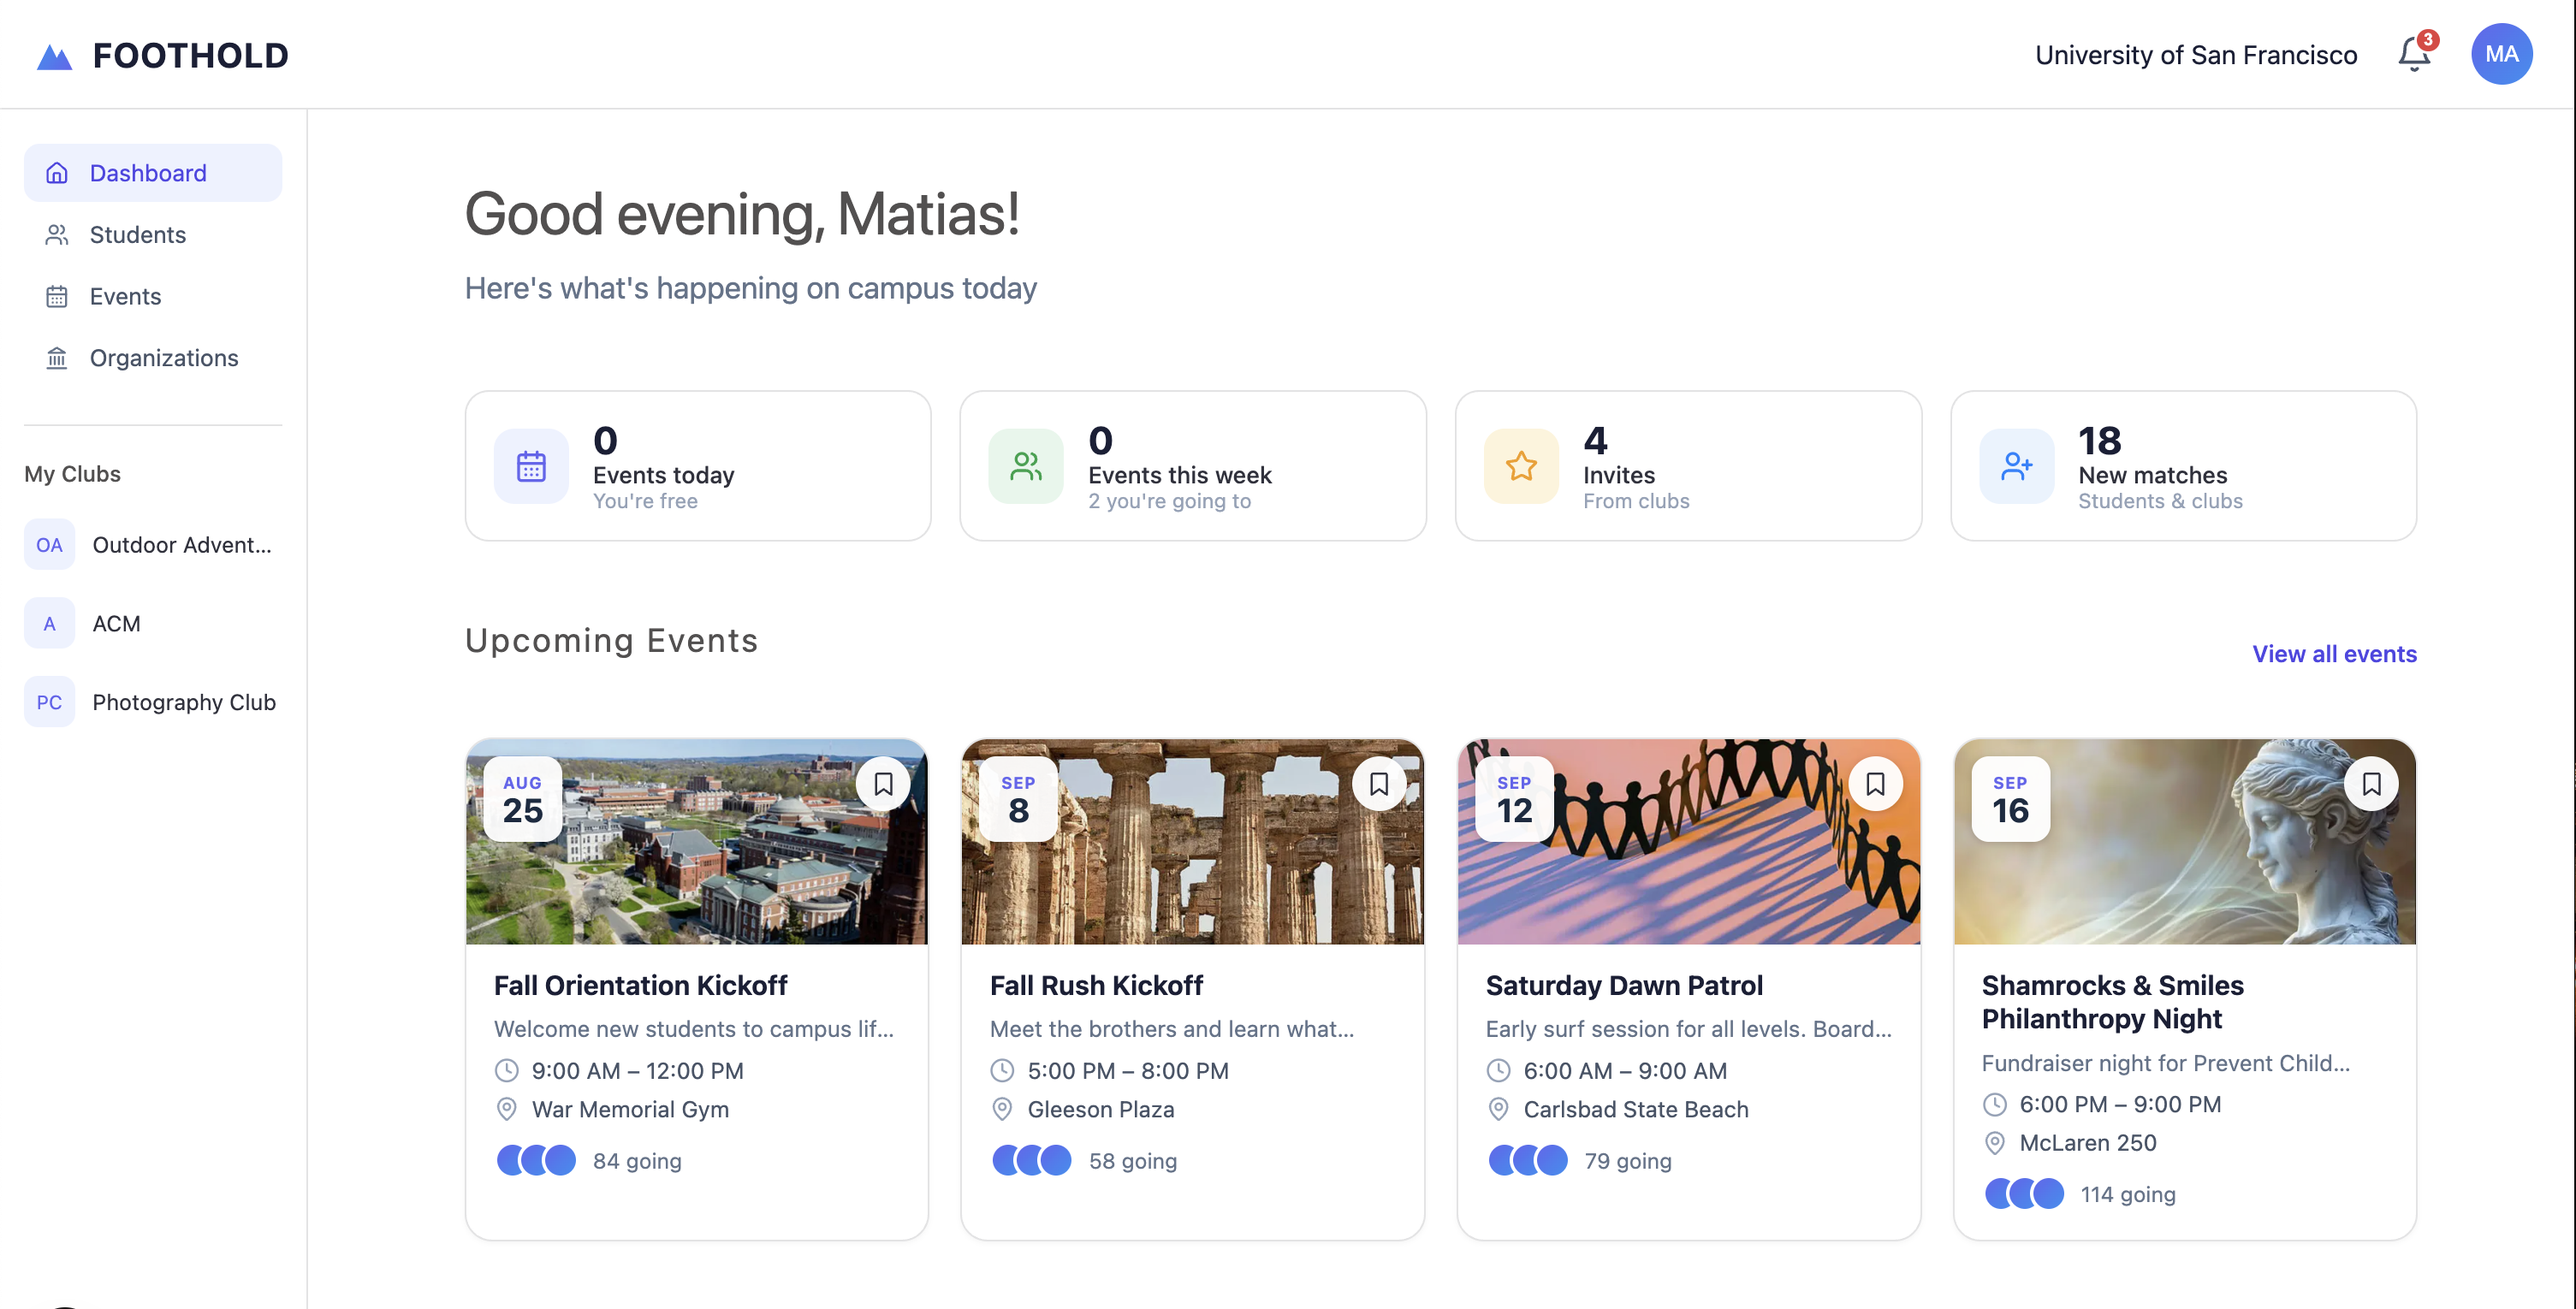
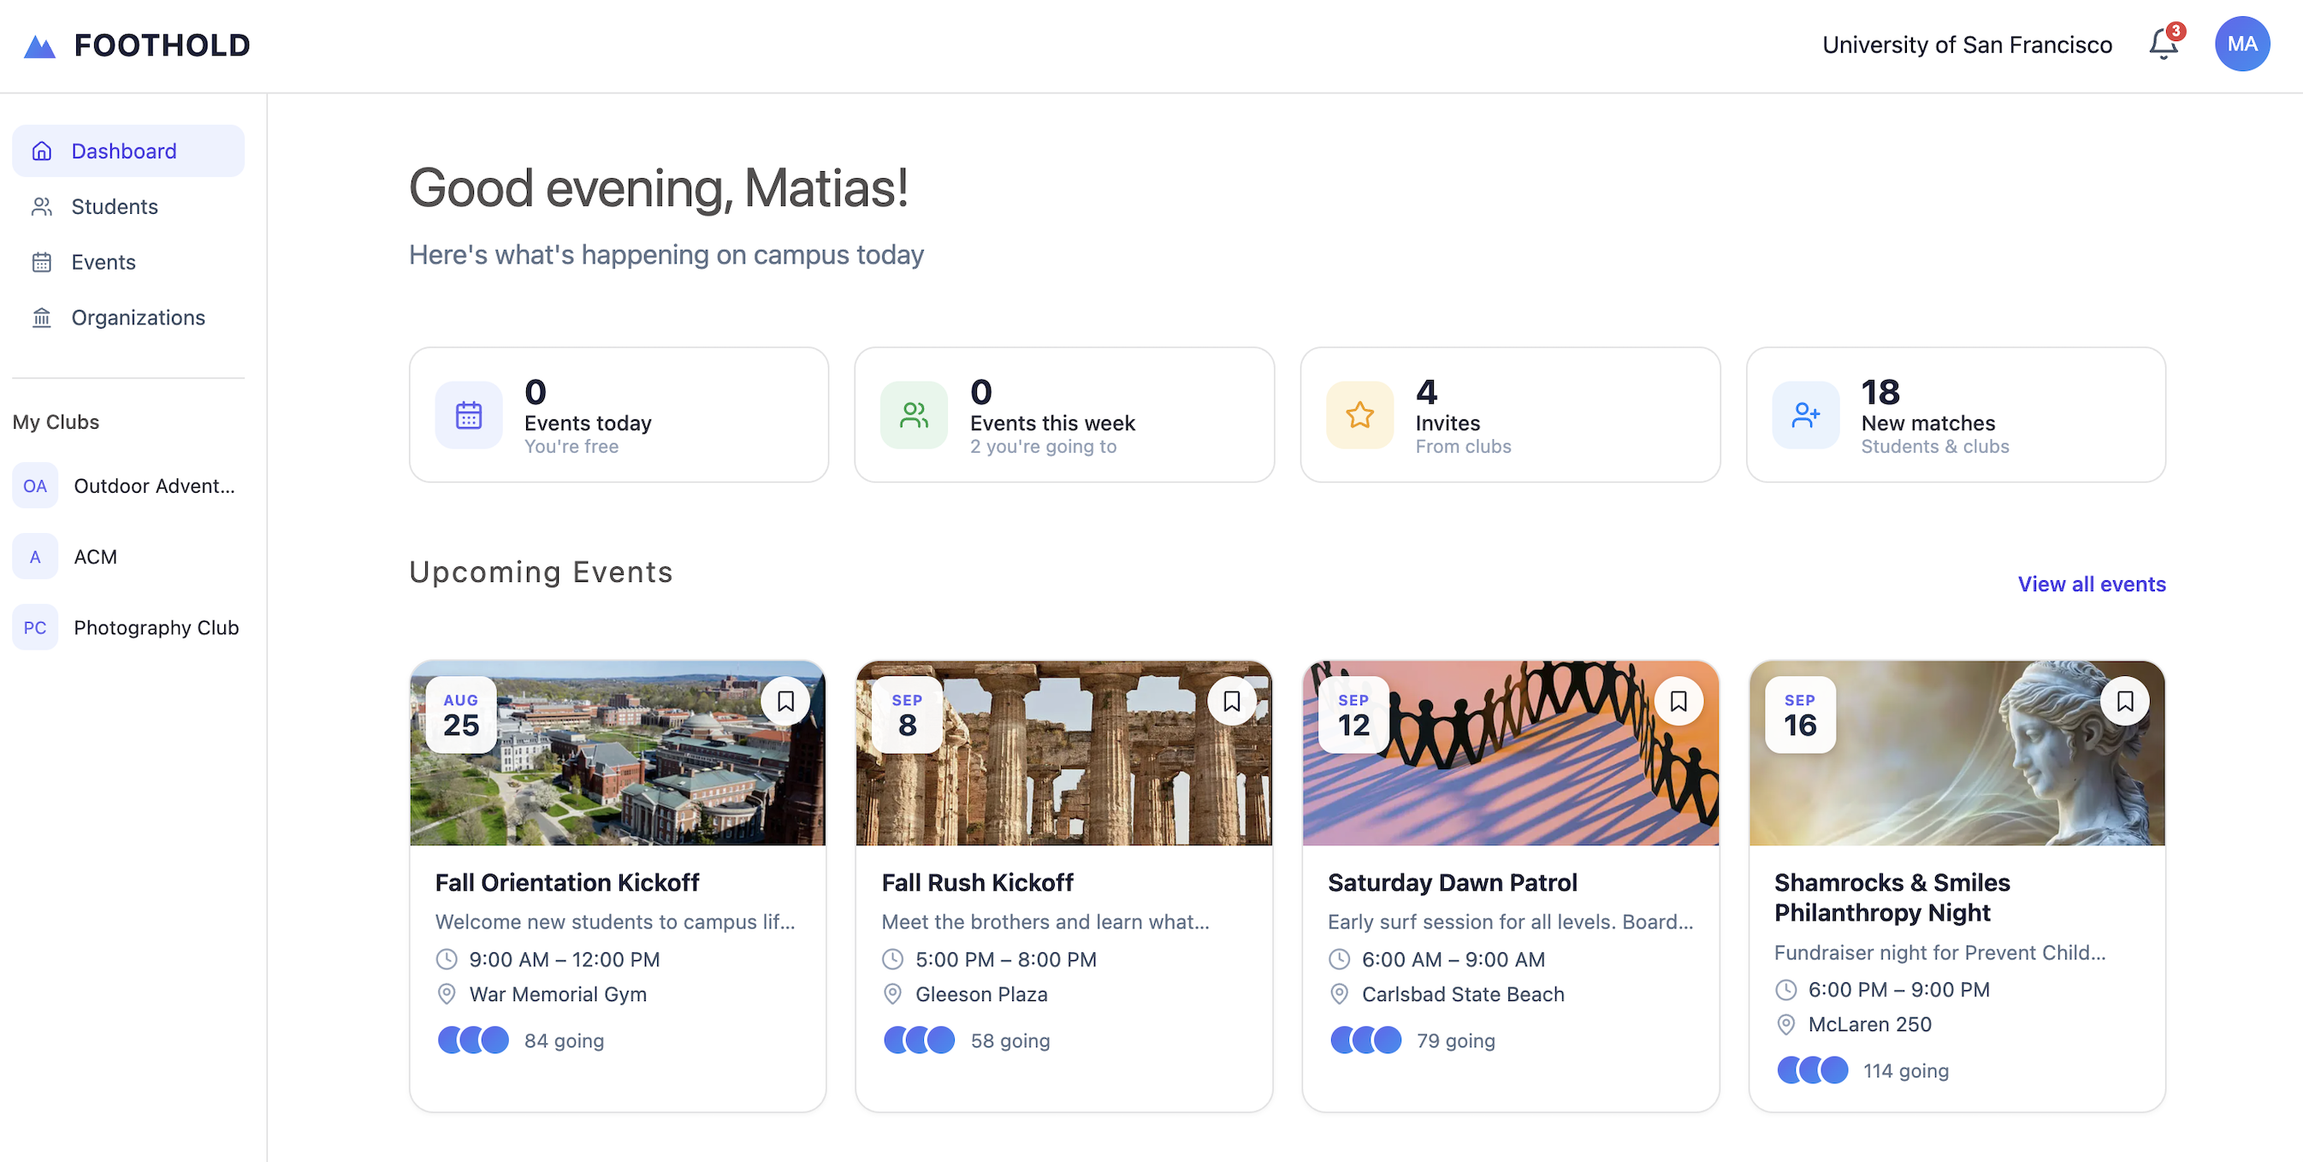
feat: add project showcase on software section

diff --git a/src/_components/software.tsx b/src/_components/software.tsx
@@ -1,47 +1,50 @@
+import { useState } from 'react';
 import styles from './styles/software.module.css';
-import { FiBarChart2 } from 'react-icons/fi';
-import { FiLayers } from 'react-icons/fi';
+import { FiBarChart2, FiLayers, FiChevronLeft, FiChevronRight } from 'react-icons/fi';
 
-const projects = [
+const featured = [
     {
-        image: "/foothold.png",
-        number: '01',
-        icon: <FiLayers />,
-        name: 'FOOTHOLD',
-        description: 'A foundational infrastructure layer that makes model training reproducible and portable. Provides versioned experiment tracking, automated hyperparameter search, and environment snapshotting so you can move training workloads across different hardware setups without rebuilding from scratch. Designed with Docker-based containerization for consistent execution everywhere.',
-        tags: ['HTML', 'CSS', 'Typescript', 'Next.js', 'Postgresql'],
-        repo: 'https://github.com/matiasagado/foothold-web.git',
-    },
-    {
-        image: "/foothold.png",
-        number: '02',
-        icon: <FiBarChart2 />,
-        name: 'Groot',
-        description: 'A production monitoring and diagnostic tool for analyzing model behavior in real time. Detects anomalies in inference logs, tracks performance degradation across model versions, and surfaces actionable insights through an intuitive dashboard. Built with Python and PyTorch, it integrates directly into existing ML pipelines with minimal configuration overhead.',
-        tags: ['HTML', 'CSS', 'Python', 'Go'],
+        image: "/groot.png",
+        name: 'GROOT',
+        description: 'Built a real-time log analysis system that automatically flagged security threats across thousands of logs, with a dashboard for visualizing system health.',
+        tags: ['PYTHON', 'GO'],
         repo: 'https://github.com/matiasagado/Groot.git',
     },
     {
         image: "/foothold.png",
-        number: '04',
-        icon: <FiLayers />,
-        name: 'Polaris',
-        description: 'A foundational infrastructure layer that makes model training reproducible and portable. Provides versioned experiment tracking, automated hyperparameter search, and environment snapshotting so you can move training workloads across different hardware setups without rebuilding from scratch. Designed with Docker-based containerization for consistent execution everywhere.',
-        tags: ['Java'],
-        repo: 'https://github.com/matiasagado/Polaris.git',
+        name: 'FOOTHOLD',
+        description: 'Built a full-stack SaaS platform for student campus discovery. Designed the frontend, architected the backend, and drove the full product lifecycle.',
+        tags: ['TYPESCRIPT', 'NEXT.JS', 'SUPABASE'],
+        repo: 'https://github.com/matiasagado/foothold-web.git',
     },
     {
-        image: "/foothold.png",
-        number: '03',
+        image: "/polaris.png",
+        name: 'POLARIS',
+        description: 'Built a multithreaded inverted index search engine capable of indexing 10,000+ documents, with algorithmic optimizations to improve query throughput.',
+        tags: ['JAVA', 'JAVA SERVLETS'],
+        repo: 'https://github.com/matiasagado/Polaris.git',
+    },
+];
+
+const projects = [
+    {
+        number: '01',
         icon: <FiLayers />,
         name: 'RISC-V CPU Emulator',
-        description: 'A foundational infrastructure layer that makes model training reproducible and portable. Provides versioned experiment tracking, automated hyperparameter search, and environment snapshotting so you can move training workloads across different hardware setups without rebuilding from scratch. Designed with Docker-based containerization for consistent execution everywhere.',
-        tags: ['C','RISC-V Assembly'],
+        description: 'Built a 32-bit RISC-V CPU emulator in software, implementing a full register file, instruction decoder (opcodes, registers, immediates), and hardware-style memory address mapping.',
+        tags: ['C', 'RISC-V Assembly'],
         repo: 'https://github.com/matiasagado/foothold-web.git',
     },
 ];
 
 export default function Software() {
+    const [active, setActive] = useState(0);
+
+    const prev = () => setActive((i) => (i - 1 + featured.length) % featured.length);
+    const next = () => setActive((i) => (i + 1) % featured.length);
+
+    const current = featured[active];
+
     return (
         <section className={styles.section} id="software">
             <div className={styles.header}>
@@ -56,14 +59,46 @@ export default function Software() {
                 </p>
             </div>
 
+            {/* CAROUSEL */}
+            <a href={current.repo} target="_blank" className={styles.carousel}>
+                <img src={current.image} alt={current.name} className={styles.carouselImg} />
+                <div className={styles.carouselOverlay} />
+                <button
+                    className={`${styles.arrow} ${styles.arrowLeft}`}
+                    onClick={(e) => { e.preventDefault(); prev(); }}
+                >
+                    <FiChevronLeft />
+                </button>
+                <button
+                    className={`${styles.arrow} ${styles.arrowRight}`}
+                    onClick={(e) => { e.preventDefault(); next(); }}
+                >
+                    <FiChevronRight />
+                </button>
+                <div className={styles.carouselContent}>
+                    <h3 className={styles.carouselName}>{current.name}</h3>
+                    <p className={styles.carouselDesc}>{current.description}</p>
+                    <div className={styles.carouselTags}>
+                        {current.tags.map((tag, i) => (
+                            <span key={tag}>
+                                {tag}{i < current.tags.length - 1 && (
+                                    <span className={styles.carouselDivider}> / </span>
+                                )}
+                            </span>
+                        ))}
+                    </div>
+                </div>
+                <div className={styles.dots}>
+                    {featured.map((_, i) => (
+                        <span key={i} className={`${styles.dot} ${i === active ? styles.dotActive : ''}`} />
+                    ))}
+                </div>
+            </a>
+
+            {/* GRID */}
             <div className={styles.grid}>
                 {projects.map((project) => (
                     <a key={project.number} href={project.repo} target='_blank' className={styles.card}>
-                        <img src={project.image} alt={project.name} className={styles.cardImage} />
-                        {/* <div className={styles.cardTop}>
-                            <span className={styles.number}>{project.number}</span>
-                            <span className={styles.iconBox}>{project.icon}</span>
-                        </div> */}
                         <h3 className={styles.projectName}>{project.name}</h3>
                         <p className={styles.projectDesc}>{project.description}</p>
                         <div className={styles.tags}>

diff --git a/src/_components/styles/software.module.css b/src/_components/styles/software.module.css
@@ -50,6 +50,126 @@
     line-height: 1.6;
 }
 
+.carousel {
+    position: relative;
+    display: block;
+    width: 100%;
+    height: 480px;
+    border-radius: 20px;
+    overflow: hidden;
+    margin-bottom: 32px;
+    text-decoration: none;
+    cursor: pointer;
+}
+
+.carouselImg {
+    width: 100%;
+    height: 100%;
+    object-fit: cover;
+    object-position: top;
+    display: block;
+}
+
+.carouselOverlay {
+    position: absolute;
+    inset: 0;
+    background: linear-gradient(to top, rgba(0, 0, 0, 0.80) 0%, rgba(0, 0, 0, 0.2) 60%, transparent 100%);
+}
+
+.carouselContent {
+    position: absolute;
+    bottom: 48px;
+    left: 48px;
+    right: 120px;
+    color: #fff;
+    display: flex;
+    flex-direction: column;
+    gap: 8px;
+}
+
+.carouselName {
+    font-family: var(--text-accent);
+    font-size: 2rem;
+    font-weight: 700;
+    margin: 0;
+    text-transform: uppercase;
+}
+
+.carouselDesc {
+    font-family: var(--navLinks);
+    font-size: 0.9rem;
+    line-height: 1.6;
+    margin: 0;
+    color: rgba(255, 255, 255, 0.85);
+    max-width: 560px;
+}
+
+.carouselTags {
+    font-family: var(--navLinks);
+    font-size: 0.75rem;
+    letter-spacing: 0.12em;
+    color: var(--accent-orange);
+    margin-top: 4px;
+}
+
+.carouselDivider {
+    color: rgba(255, 255, 255, 0.4);
+    margin: 0 4px;
+}
+
+.arrow {
+    position: absolute;
+    top: 50%;
+    transform: translateY(-50%);
+    background: rgba(255, 255, 255, 0.08);
+    border: 1px solid rgba(255, 255, 255, 0.15);
+    color: #fff;
+    width: 40px;
+    height: 40px;
+    border-radius: 8px;
+    display: flex;
+    align-items: center;
+    justify-content: center;
+    font-size: 1.2rem;
+    cursor: pointer;
+    z-index: 2;
+    transition: background 0.2s;
+}
+
+.arrow:hover {
+    background: rgba(255, 255, 255, 0.18);
+}
+
+.arrowLeft {
+    left: 20px;
+}
+
+.arrowRight {
+    right: 20px;
+}
+
+.dots {
+    position: absolute;
+    bottom: 16px;
+    left: 50%;
+    transform: translateX(-50%);
+    display: flex;
+    gap: 8px;
+}
+
+.dot {
+    width: 70px;
+    height: 3px;
+    border-radius: 2px;
+    background: rgba(255, 255, 255, 0.3);
+    transition: background 0.2s;
+}
+
+.dotActive {
+    background: var(--accent-green);
+}
+
+/* Grid */
 .grid {
     display: grid;
     grid-template-columns: repeat(2, 1fr);
@@ -57,6 +177,7 @@
     width: 100%;
 }
 
+/* Card */
 .card {
     background: var(--card);
     border: 1px solid var(--card);
@@ -67,23 +188,23 @@
     gap: 2px;
     transition: transform 0.2s ease, box-shadow 0.2s ease;
     text-decoration: none;
-    height: 500px;
+    height: 300px;
     width: 100%;
     box-sizing: border-box;
 }
 
 .card:hover {
     transform: translateY(-4px);
-    box-shadow: 0 12px 32px rgba(0, 0, 0, 0.15);
+    box-shadow: 0 15px 32px rgba(0, 0, 0, 0.25);
 }
 
 .cardImage {
     width: 100%;
-    height: 190px;
+    height: 200px;
     object-fit: cover;
+    object-position: top;
     border-radius: 12px;
     margin-bottom: 16px;
-    aspect-ratio: 3/2;
 }
 
 .cardTop {
@@ -115,7 +236,7 @@
     color: var(--text);
     font-size: 1.4rem;
     font-weight: 700;
-    margin: 0;
+    margin-bottom: 10px;
     text-transform: uppercase;
 }
 
